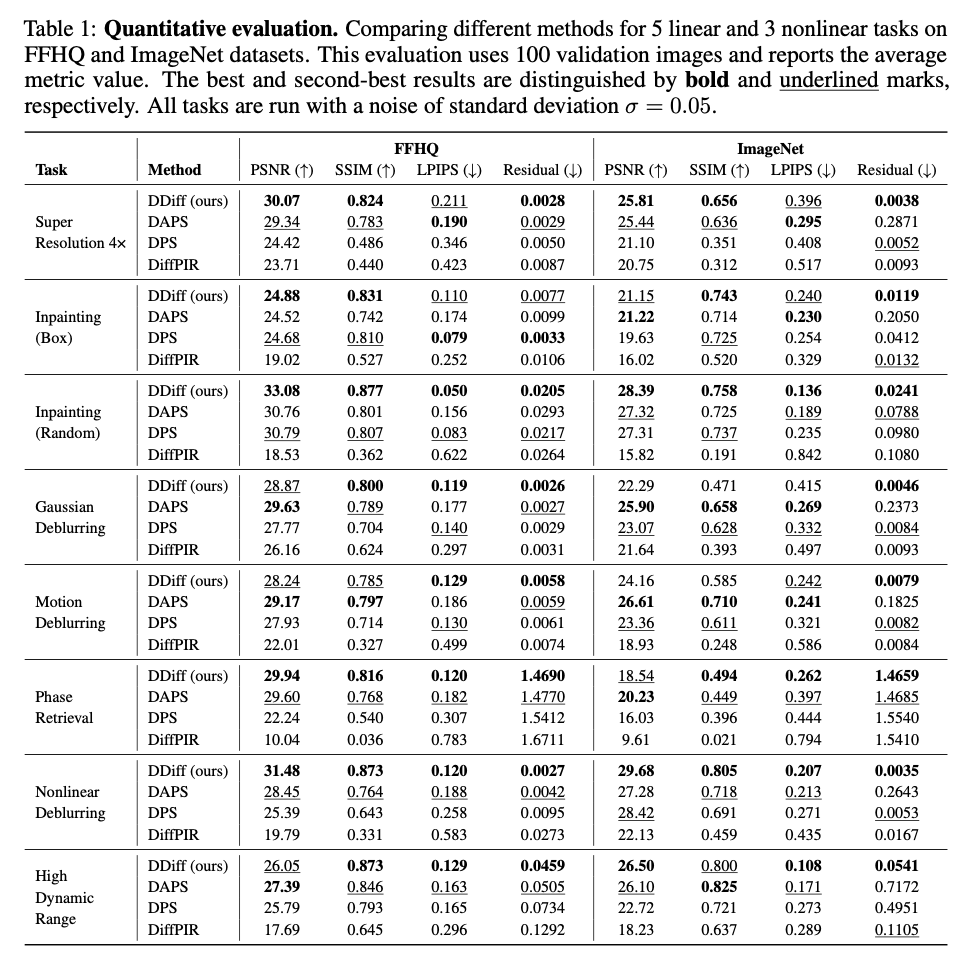
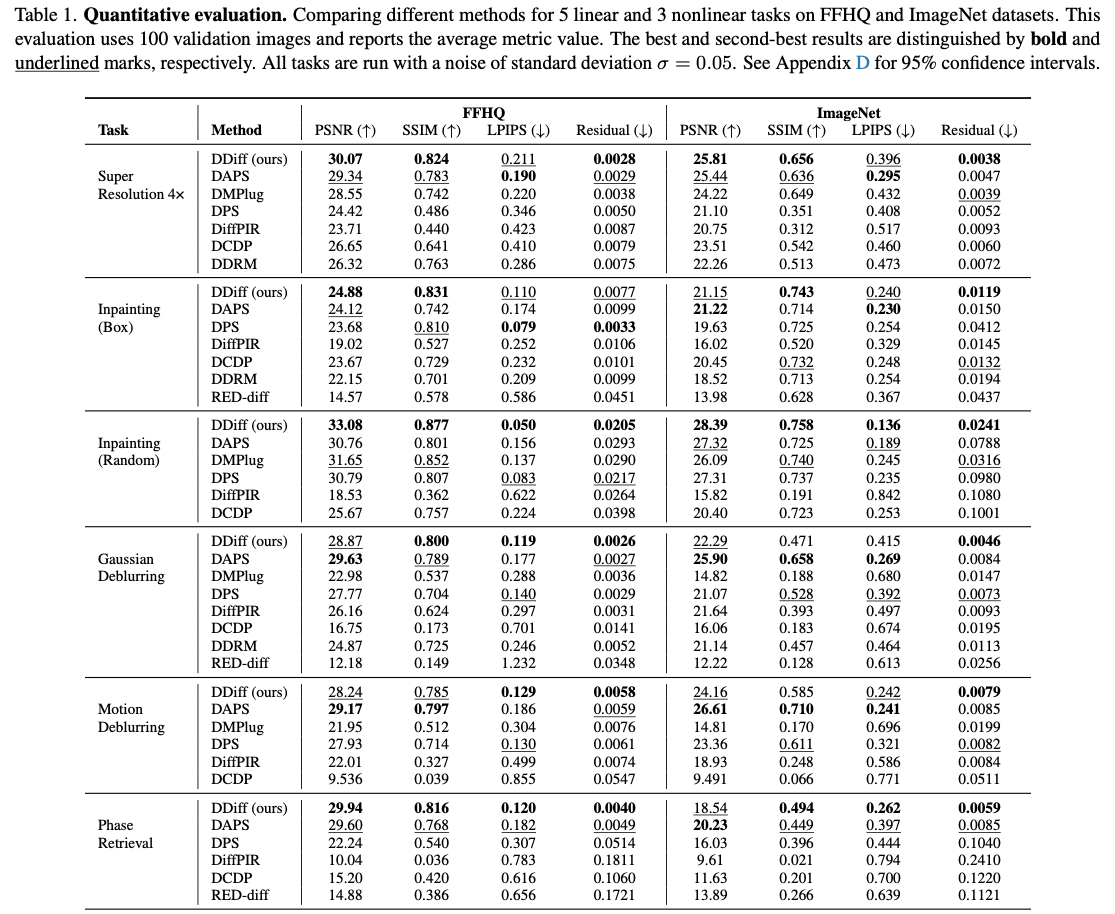
updated cvpr

Changed region(s): [[0.0, 0.0, 0.9806, 1.0]]

diff --git a/index.html b/index.html
@@ -2,9 +2,14 @@
 <html>
 <head>
   <meta charset="utf-8">
+  <!-- ===== ORIGINAL (template leftover) =====
   <meta name="description"
         content="Deformable Neural Radiance Fields creates free-viewpoint portraits (nerfies) from casually captured videos.">
   <meta name="keywords" content="Nerfies, D-NeRF, NeRF">
+  ===== END ORIGINAL ===== -->
+  <meta name="description"
+        content="Dual Ascent Diffusion (DDiff): an ADMM-inspired dual-ascent framework for solving MAP inverse problems with pretrained diffusion priors. Accepted at CVPR 2026.">
+  <meta name="keywords" content="DDiff, Dual Ascent Diffusion, inverse problems, diffusion models, ADMM, image restoration, CVPR 2026">
   <meta name="viewport" content="width=device-width, initial-scale=1">
   <title>Dual Ascent Diffusion for Inverse Problems</title>
 
@@ -48,6 +53,11 @@
       <div class="columns is-centered">
         <div class="column has-text-centered">
           <h1 class="title is-1 publication-title">Dual Ascent Diffusion for Inverse Problems</h1>
+          <!-- ===== ADDED: CVPR 2026 acceptance badge ===== -->
+          <div class="is-size-4 publication-authors" style="margin-bottom: 1rem;">
+            <span style="color: #b3122b; font-weight: 700;">CVPR 2026</span>
+          </div>
+          <!-- ===== END ADDED ===== -->
           <div class="is-size-5 publication-authors">
             <span class="author-block">
               <a href="https://soniaminseokim.github.io/">Minseo (Sonia) Kim</a><sup>1</sup>,</span>
@@ -105,8 +115,13 @@
     <div class="hero-body">
       <img src="my-images/algo_figure_new.png" alt="PDF First Page" style="width:100%;height:auto;">
       <h2 class="subtitle has-text-centered">
+        <!-- ===== ORIGINAL CAPTION =====
         <span class="pdf_caption" style="text-align: justify; display: block; width: 100%; margin: 0 auto;">
           <strong>Overview of DDiff.</strong> This example illustrates the motion deblurring task. Our method alternates between three steps (x-update, z-update, dual update). On the right, we show the evolution of x, z, and u throughout optimization.
+        </span>
+        ===== END ORIGINAL ===== -->
+        <span class="pdf_caption" style="text-align: justify; display: block; width: 100%; margin: 0 auto;">
+          <strong>Overview of DDiff.</strong> This example illustrates motion deblurring. DDiff alternates between three updates (x-, z-, and dual updates) within each ADMM iteration. As iterations proceed, the primal variables x and z progressively align, while the dual variable u diminishes toward zero, indicating convergence to a fixed point (x<sup>&#9733;</sup>, z<sup>&#9733;</sup>, u<sup>&#9733;</sup>). This evolution visually demonstrates the fixed-point convergence behavior analyzed in the paper. Here, the ADMM iteration index and diffusion timestep are set equal by design.
         </span>
       </h2>
     </div>
@@ -159,6 +174,14 @@
         <p>
           Ablation studies confirm that both components are essential and must work together - using dual variables without the noising step actually degrades performance compared to not using dual variables at all.
         </p>
+        <!-- ===== ADDED: convergence + latent extension ===== -->
+        <p>
+          <strong>3. Provable Convergence:</strong> Under bounded denoiser and bounded gradient assumptions, the DDiff iterates (x, z, u) form Cauchy sequences and converge to a fixed point (x<sup>&#9733;</sup>, z<sup>&#9733;</sup>, u<sup>&#9733;</sup>) - notably without requiring a convex prior. To our knowledge, this is the first fixed-point convergence result for a diffusion-based posterior optimization method.
+        </p>
+        <p>
+          <strong>Latent extension (LatentDDiff):</strong> The same dual-ascent structure extends naturally to the latent space of a latent diffusion model (LDM), enabling efficient inference in compact feature spaces while preserving data consistency.
+        </p>
+        <!-- ===== END ADDED ===== -->
         </div>
       </div>
     </div>
@@ -177,32 +200,41 @@
 
         <div class="content has-text-justified">
           <div style="text-align: center; margin: 20px 0;">
-            <img src="my-images/paper_figure.png" alt="Experimental Results" style="width:100%; height:auto; max-width: 800px;">
+            <img src="my-images/paper_figure.png" alt="Qualitative comparison of DDiff against DPS and DAPS" style="width:100%; height:auto; max-width: 800px;">
+            <p style="text-align: center; font-style: italic; color: #555;">
+              Qualitative results. DDiff produces sharper and cleaner reconstructions than DPS and DAPS across tasks (σ = 0.05).
+            </p>
           </div>
 
+          <!-- ===== ORIGINAL =====
           <p>
             DDiff was evaluated across a comprehensive suite of linear and nonlinear inverse problems using FFHQ256×256 and ImageNet256×256 datasets. The method was compared against leading approaches: Diffusion Posterior Sampling (DPS), Decoupled Annealing Posterior Sampling (DAPS), and DiffPIR.
+          </p>
+          ===== END ORIGINAL ===== -->
+          <p>
+            DDiff was evaluated across a comprehensive suite of five linear and three nonlinear inverse problems (super-resolution, box and random inpainting, Gaussian and motion deblurring, phase retrieval, nonlinear deblurring, and high dynamic range imaging) on the FFHQ 256×256 and ImageNet 256×256 datasets. We compare against a broad set of state-of-the-art baselines, including DAPS, DMPlug, DCDP, RED-diff, DDRM, DPS, and DiffPIR, as well as latent-diffusion baselines (LatentDAPS, PSLD, ReSample) for our LatentDDiff variant.
           </p>
 
            <!-- Subsection 1: Quantitative Results -->
           <div class="subsection" style="margin-top: 40px;">
             <h3 class="title is-4">Superior Image Quality</h3>
             <p>
-              DDiff achieves significantly lower LPIPS scores (better perceptual quality) across most tasks and exhibits strong performance in PSNR and SSIM metrics. 
+              DDiff achieves significantly lower LPIPS scores (better perceptual quality) across most tasks and exhibits strong performance in PSNR and SSIM metrics.
             </p>
-            <!-- Add your quantitative results content here -->
+            <div style="text-align: center; margin: 20px 0;">
+              <img src="my-images/main_table.png" alt="Quantitative evaluation across linear and nonlinear inverse problems" style="width:100%; height:auto; max-width: 900px;">
+            </div>
+            <p style="text-align: center; font-style: italic; color: #555;">
+              Quantitative evaluation on FFHQ and ImageNet, averaged over 100 validation images (σ = 0.05). Best and second-best results are shown in <strong>bold</strong> and <u>underline</u>. <strong>Please refer to the <a href="https://www.arxiv.org/abs/2505.17353">full paper</a> for the comprehensive set of inverse tasks and the complete quantitative and qualitative results</strong>, including latent-diffusion experiments, confidence intervals, and additional visual comparisons.
+            </p>
           </div>
 
           <!-- Subsection 2: Qualitative Analysis -->
           <div class="subsection" style="margin-top: 40px;">
             <h3 class="title is-4">Better Measurement Consistency</h3>
             <p>
-              Lower residual errors indicate reconstructions that more faithfully match the observed data.
+              DDiff also reconstructs solutions that represent the observations more faithfully: across tasks it attains lower residual error (the Residual column above), indicating reconstructions that more closely match the measurement statistics. Since the log-likelihood of the observations is an indicator of the level of hallucination a generative prior introduces, closer-to-zero residuals reflect higher fidelity and less hallucination.
             </p>
-            <div style="text-align: center; margin: 20px 0;">
-              <img src="my-images/main_table.png" alt="Experimental Results" style="width:100%; height:auto; max-width: 800px;">
-            </div>
-            <!-- Add images and analysis here -->
           </div>
 
           <!-- Subsection 3: Ablation Studies -->
@@ -216,10 +248,16 @@
               low-dose CT imaging or cryo-electron microscopy where noise is inherent to the measurement process.
             </p>
             <div style="text-align: center; margin: 20px 0;">
-              <img src="my-images/robust1.png" alt="Experimental Results" style="width:100%; height:auto; max-width: 800px;">
+              <img src="my-images/robust1.png" alt="Effect of measurement noise level on PSNR and LPIPS" style="width:100%; height:auto; max-width: 800px;">
+              <p style="text-align: center; font-style: italic; color: #555;">
+                Effect of measurement noise level. DDiff (blue) degrades far more gracefully than DAPS (orange) as the noise standard deviation grows. On phase retrieval at σ = 0.3, DDiff reduces LPIPS by roughly 3×.
+              </p>
             </div>
             <div style="text-align: center; margin: 20px 0;">
-              <img src="my-images/robust2.png" alt="Experimental Results" style="width:100%; height:auto; max-width: 800px;">
+              <img src="my-images/robust2.png" alt="Qualitative phase retrieval results at high measurement noise" style="width:100%; height:auto; max-width: 800px;">
+              <p style="text-align: center; font-style: italic; color: #555;">
+                Qualitative results at high measurement noise (phase retrieval, σ = 0.3). DDiff recovers coherent global structure and facial semantics, while DAPS reconstructions show strong corruption and noise artifacts.
+              </p>
             </div>
             <!-- Add ablation study content here -->
           </div>
@@ -231,7 +269,10 @@
               DDiff demonstrates superior computational efficiency compared to sampling-based methods like DAPS:
             </p>
             <div style="text-align: center; margin: 20px 0;">
-              <img src="my-images/compeff.png" alt="Experimental Results" style="width:100%; height:auto; max-width: 800px;">
+              <img src="my-images/compeff.png" alt="Sample quality versus sampling time at matched NFEs" style="width:100%; height:auto; max-width: 800px;">
+              <p style="text-align: center; font-style: italic; color: #555;">
+                Sample quality (LPIPS) vs. sampling time per image. For the same number of neural function evaluations, DDiff is both faster and higher quality than DAPS - roughly half the sampling time on linear tasks and about one-sixth on nonlinear tasks.
+              </p>
             </div>
             <p>The efficiency gains stem from:</p>
               <ul>
@@ -253,14 +294,23 @@
 <section class="section" id="BibTeX">
   <div class="container is-max-desktop content">
     <h2 class="title">BibTeX</h2>
+    <!-- ===== ORIGINAL =====
     <pre><code>@misc{kim2025dualascentdiffusioninverse,
-      title={Dual Ascent Diffusion for Inverse Problems}, 
+      title={Dual Ascent Diffusion for Inverse Problems},
       author={Minseo Kim and Axel Levy and Gordon Wetzstein},
       year={2025},
       eprint={2505.17353},
       archivePrefix={arXiv},
       primaryClass={cs.CV},
-      url={https://arxiv.org/abs/2505.17353}, 
+      url={https://arxiv.org/abs/2505.17353},
+}</code></pre>
+    ===== END ORIGINAL ===== -->
+    <pre><code>@inproceedings{kim2026dualascentdiffusion,
+      title={Dual Ascent Diffusion for Inverse Problems},
+      author={Minseo Kim and Axel Levy and Gordon Wetzstein},
+      booktitle={Proceedings of the IEEE/CVF Conference on Computer Vision and Pattern Recognition (CVPR)},
+      year={2026},
+      url={https://arxiv.org/abs/2505.17353},
 }</code></pre>
   </div>
 </section>
